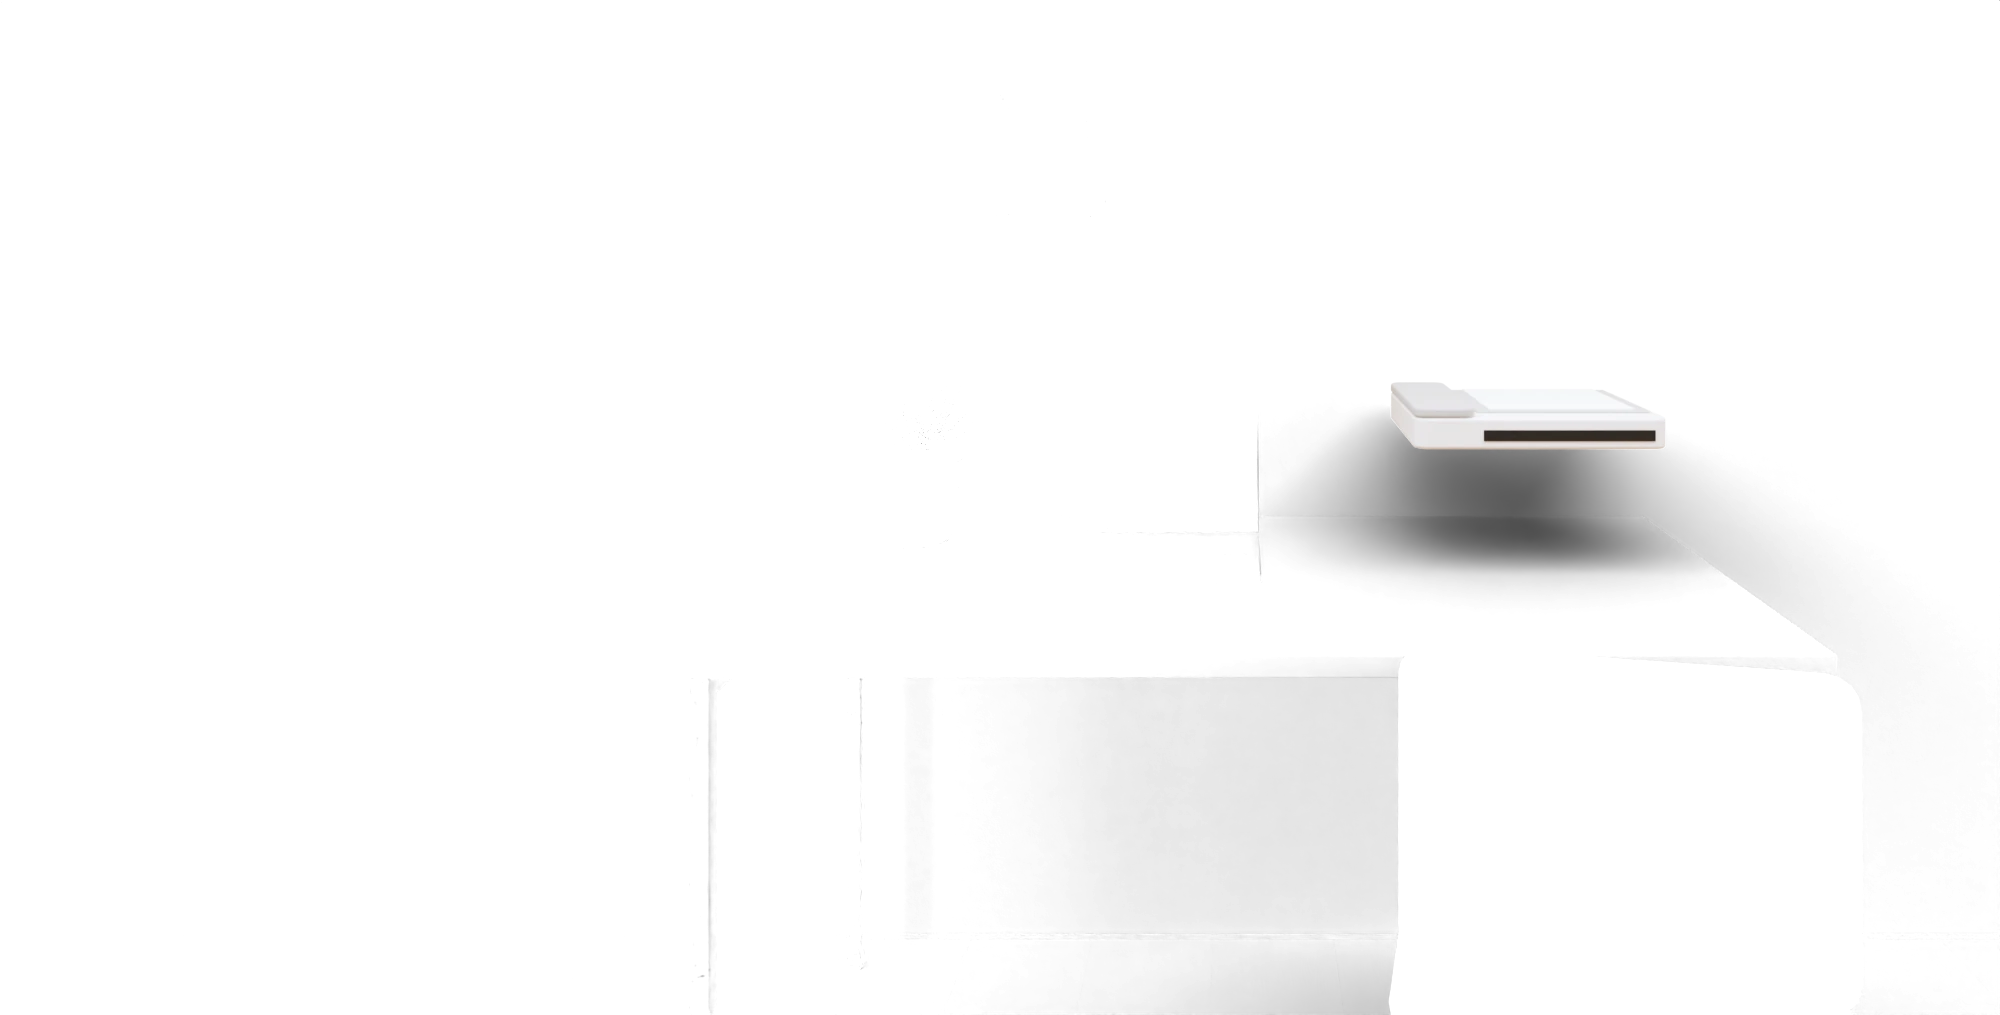
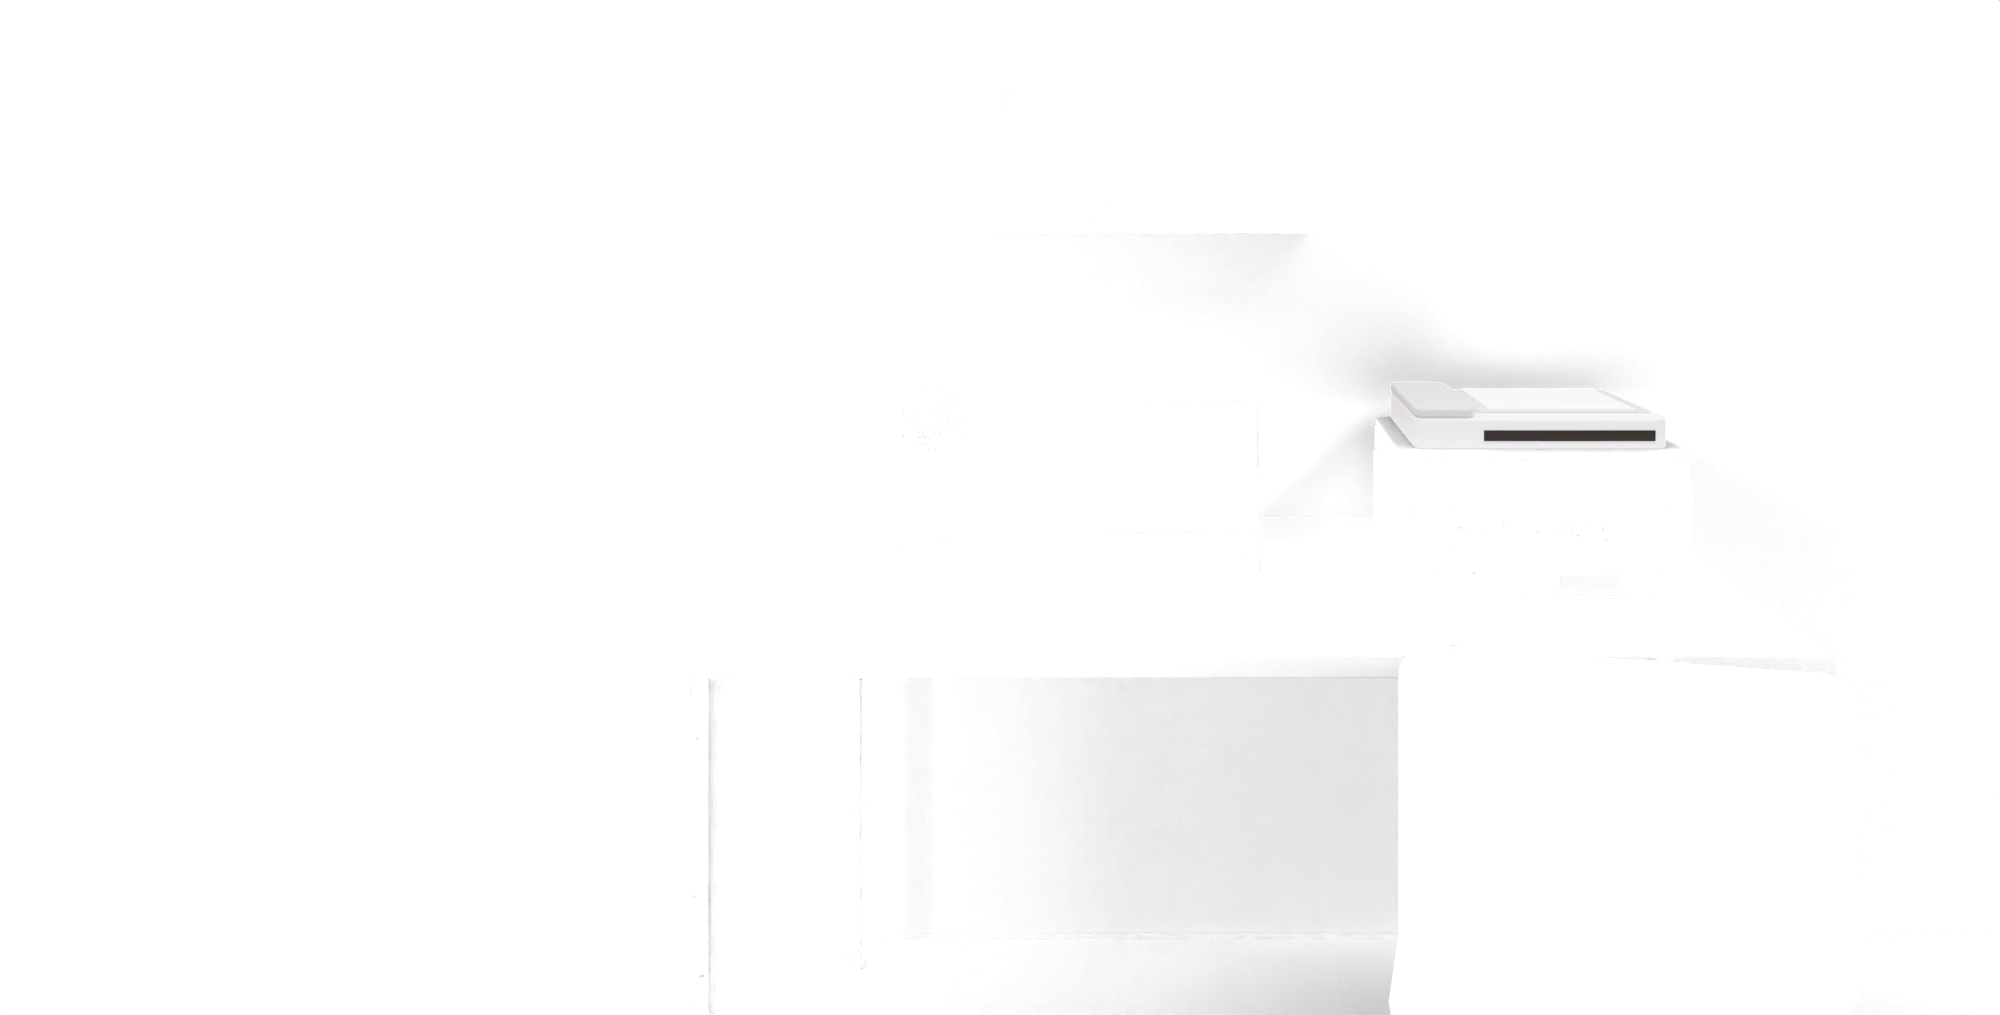
Printer: geen donker waas meer over de printer bij documentinvoer
De lagen voor documentinvoer en inkttanks werden gerenderd zonder printer eronder, zodat hun
schaduw op het bureau viel en op de pagina als waas over de printer lag. Nu zit de printer
als schaduwvanger in die render.

Changed region(s): [[0.62, 0.4276, 0.899, 0.5803], [0.682, 0.336, 0.806, 0.397]]

diff --git a/tools/3d-render/printer/scene.py b/tools/3d-render/printer/scene.py
@@ -618,6 +618,10 @@ def laser(aio_):
 
 if kind in ("thuis", "foto"):
     part = "tank" if lay.startswith("tank-") else "adf" if lay.startswith("adf-") else "body"
+    if part != "body":
+        # de printer zelf als ondergrond (schaduwvanger): anders zweeft de documentinvoer en
+        # valt zijn schaduw op het bureau, en die ligt op de pagina als waas over de printer
+        inkjet(kind, part == "adf", "body")
     prn = inkjet(kind, aio or part == "adf", part)
 elif kind == "zakelijk":
     prn = laser(aio)
